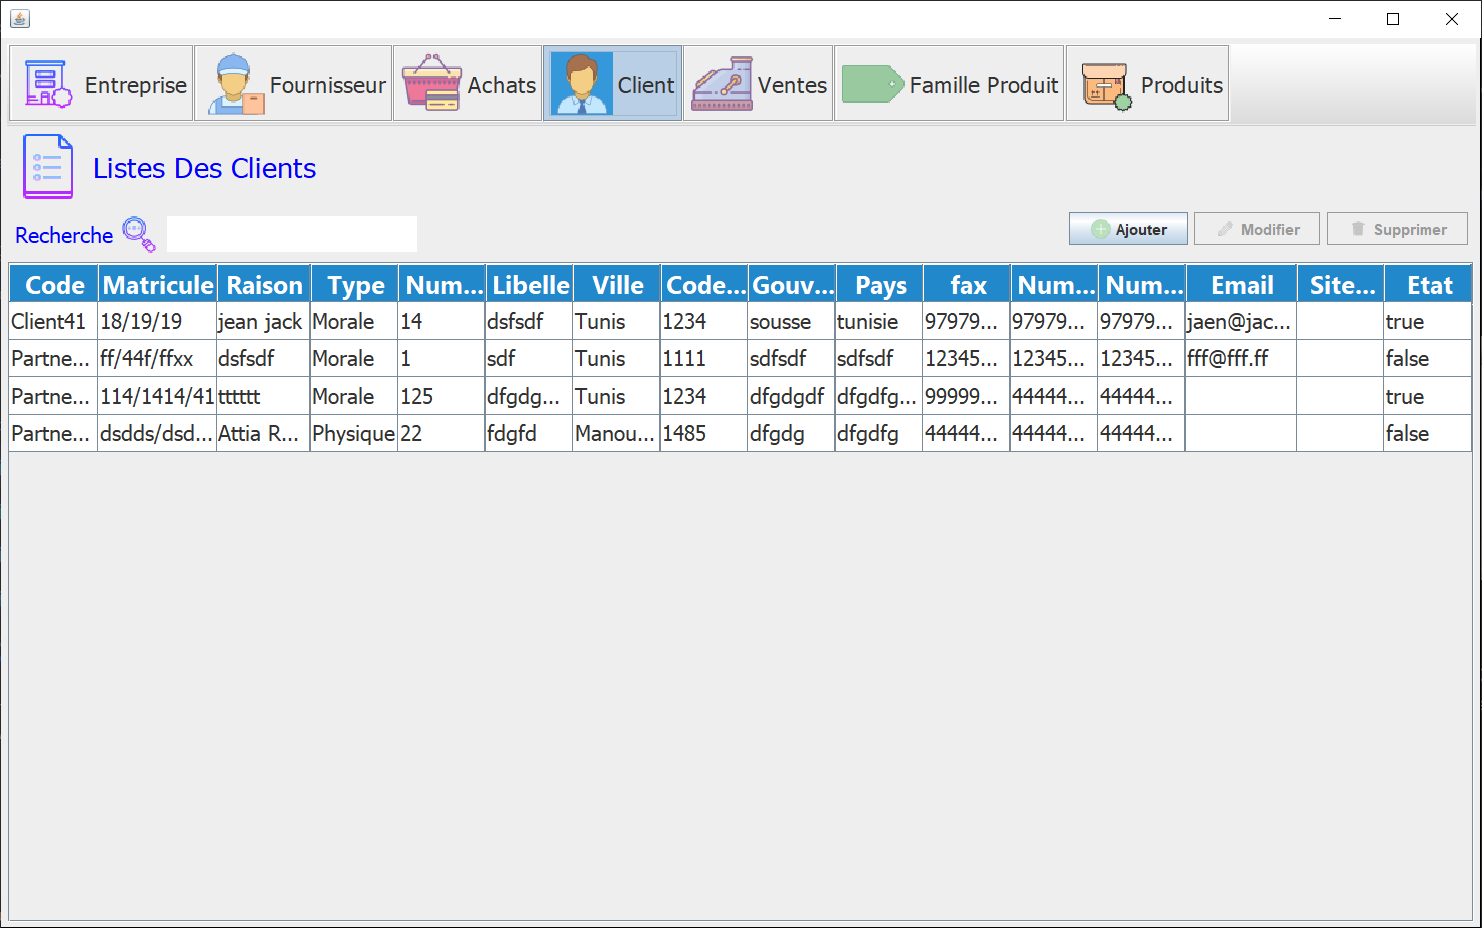
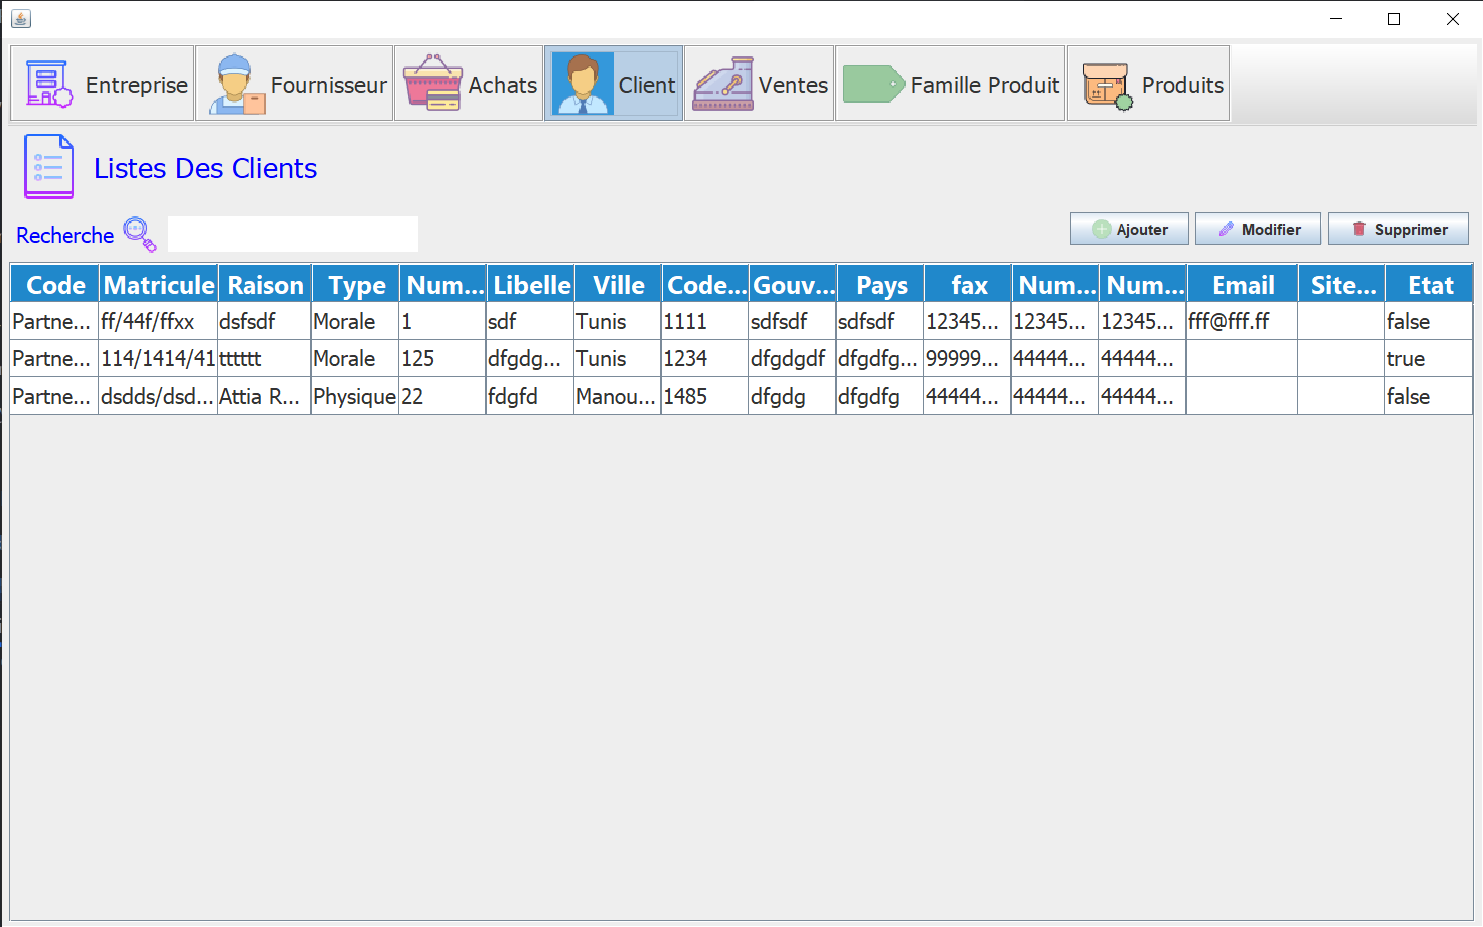
initial commit

diff --git a/README.md b/README.md
@@ -36,7 +36,7 @@ Client and Fournisseur are basically the same so i created one model "Client.jav
 ![Fournisseur ](imagesforgit/Fournisseur%20view.png)
 
 **Client**
-![Client ](imagesforgit/Fournisseur%20view.png)
+![Client ](imagesforgit/Client%20View.png)
 
 **Verification:**
 ![Verfication ](imagesforgit/realtime%20verification.png)
